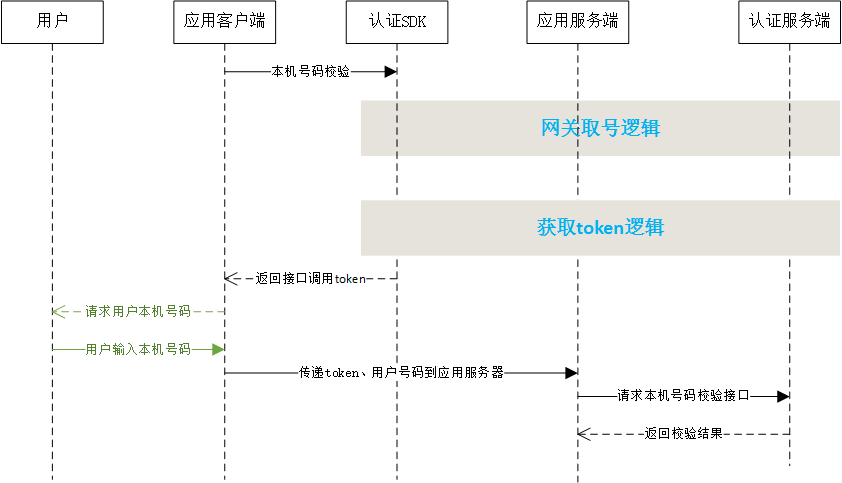
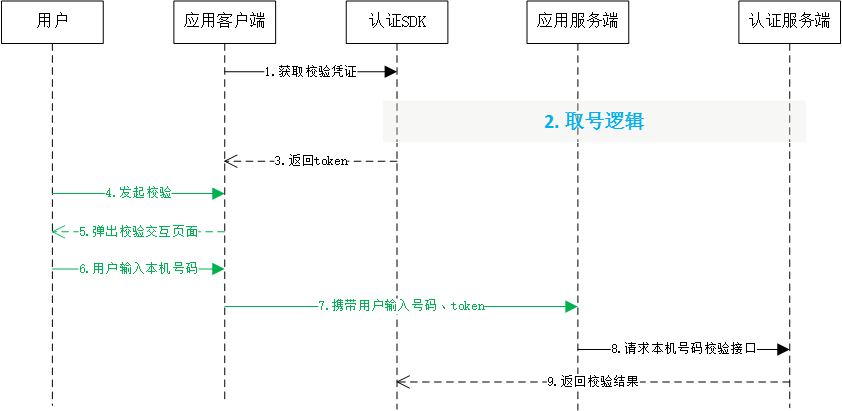
v5.1.4 -v2

diff --git a/本机校验-Android.md b/本机校验-Android.md
@@ -1,13 +1,20 @@
 # 1. 开发环境配置
 sdk技术问题沟通QQ群：609994083
 
+**注意事项：**
+
+1. **认证取号服务必须打开蜂窝数据流量并且手机操作系统给予应用蜂窝数据权限才能使用**
+2. **取号请求过程需要消耗用户少量数据流量（国外漫游时可能会产生额外的费用）**
+3. **认证取号服务目前仅支持中国移动2/3/4G**
+
 ## 1.1. 总体使用流程
+
+![](image/mobile_auth.png)
 
 1. 调用SDK方法来获得token；
 
-2. 携带token通过业务服务端到认证服务端的本机号码校验接口，进行号码校验
+2. 携带token通过业务服务端到认证服务端的本机号码校验接口，进行号码校验</br>
 
-    </br>
 
 ## 1.2. 新建工程并导入SDK的jar文件
 
@@ -21,9 +28,7 @@ sdk技术问题沟通QQ群：609994083
 
 ## 1.3. 配置AndroidManifest
 
-注意：为避免出错，请直接从Demo中复制带<!-- required -->标签的代码
-
-**配置权限**
+添加必要的权限支持: 
 
 ```java
 <uses-permission android:name="android.permission.INTERNET" />
@@ -33,7 +38,15 @@ sdk技术问题沟通QQ群：609994083
 <uses-permission android:name="android.permission.CHANGE_NETWORK_STATE" />
 ```
 
-通过以上步骤，工程就已经配置完成了。接下来就可以在代码里使用统一认证的SDK进行开发了
+权限说明：
+
+| 权限                 | 说明                                       |
+| -------------------- | ------------------------------------------ |
+| INTERNET             | 允许应用程序联网，用于访问网关和认证服务器 |
+| READ_PHONE_STATE     | 获取imsi用于判断双卡和换卡                 |
+| ACCESS_WIFI_STATE    | 允许程序访问WiFi网络状态信息               |
+| ACCESS_NETWORK_STATE | 获取网络状态，判断是否数据、wifi等         |
+| CHANGE_NETWORK_STATE | 允许程序改变网络连接状态                   |
 
 </br>
 
@@ -121,9 +134,7 @@ public AuthnHelper (Context context)
 
 ### 2.2.1. 方法描述
 
-开发者向统一认证服务器获取临时凭证`token`。</br>
-
-**token：**开发者服务端可凭临时凭证token通过3.1本机号码校验接口对本机号码进行验证。
+请求校验凭证`token`。</br>
 
 **注意：获取token前，开发者需提前申请`READ_PHONE_STATE`权限，否则会失败！**
 
@@ -147,7 +158,7 @@ public void umcLoginByType(String appId,
 | :------- | :------------ | :--------------------------------------- |
 | appId    | String        | 应用的AppID                                 |
 | appkey   | String        | 应用密钥                                     |
-| setTimeOut   | int        | 请求服务端超时时间                                     |
+| setTimeOut   | int        | 设置超时时间                               |
 | listener | TokenListener | TokenListener为回调监听器，是一个java接口，需要调用者自己实现；TokenListener是接口中的认证登录token回调接口，OnGetTokenComplete是该接口中唯一的抽象方法，即void OnGetTokenComplete(JSONObject  jsonobj) |
 
 **响应参数**
@@ -156,8 +167,8 @@ OnGetTokenComplete的参数JSONObject，含义如下：
 
 | 字段       | 类型   | 含义                                                         |
 | ---------- | ------ | ------------------------------------------------------------ |
-| resultCode | String | 接口返回码，“103000”为成功。具体响应码见4.1. 本机号码校验接口返回码 |
-| resultDesc | String | 失败时返回：返回错误码说明                                   |
+| resultCode | String | 返回码                                                       |
+| resultDesc | String | 返回描述                                                     |
 | token      | String | 成功时返回：临时凭证，token有效期2min，一次有效，同一用户（手机号）10分钟内获取token且未使用的数量不超过30个 |
 
 </br>
@@ -191,7 +202,7 @@ mAuthnHelper.umcLoginByType(Constant.APP_ID,
 
 开发者获取token后，需要将token传递到应用服务器，由应用服务器发起本机号码校验接口的调用。
 
-校验结果有两种：1.是本机号码；2.非本机号码。对于校验结果为非本机号码的请求，开发者可以选择使用短验辅助校验功能，通过短信验证码验证用户身份（**短验辅助校验无法保证校验的号码和本机号码一致**）
+校验结果有两种：1.是本机号码；2.非本机号码。对于校验结果为**2.非本机号码**的请求，开发者可以选择使用短验辅助校验功能，通过短信验证码验证用户身份（**短验辅助校验无法保证校验的号码和本机号码一致**）
 
 调用本接口，必须保证：
 
@@ -204,15 +215,7 @@ mAuthnHelper.umcLoginByType(Constant.APP_ID,
 1. 本产品属于收费业务，开发者未签订服务合同前，每天总调用次数有限，详情可咨询商务。
 2. 签订合同后，将不在提供每天免费的测试次数。
 
-### 3.1.1. 业务流程
-
-SDK在获取token过程中，用户手机必须在打开数据网络情况下才能获取成功。**注：本业务目前仅支持中国移动号码，建议开发者在使用该功能前，判断当前用户手机运营商**
-
-![](image/mobile_auth.png)
-
-</br>
-
-### 3.1.2. 接口说明
+### 3.1.1. 接口说明
 
 **调用次数说明：**本产品属于收费业务，开发者未签订服务合同前，每天总调用次数有限，详情可咨询商务。
 
@@ -224,7 +227,7 @@ SDK在获取token过程中，用户手机必须在打开数据网络情况下才
 
 </br>
 
-### 3.1.3.  参数说明
+### 3.1.2.  参数说明
 
 *1、json形式的报文交互必须是标准的json格式；*
 
@@ -232,43 +235,41 @@ SDK在获取token过程中，用户手机必须在打开数据网络情况下才
 
 **请求参数**
 
-| 参数          | 类型   | 层级  | 约束                         | 说明                                                         |
-| ------------- | ------ | ----- | ---------------------------- | ------------------------------------------------------------ |
-| **header**    |        | **1** | 必选                         |                                                              |
-| version       | string | 2     | 必选                         | 版本号,初始版本号1.0,有升级后续调整                          |
-| msgId         | string | 2     | 必选                         | 使用UUID标识请求的唯一性                                     |
-| timestamp     | string | 2     | 必选                         | 请求消息发送的系统时间，精确到毫秒，共17位，格式：20121227180001165 |
-| appId         | string | 2     | 必选                         | 应用ID                                                       |
-| **body**      |        | **1** | 必选                         |                                                              |
-| openType      | String | 2     | 否，requestertype字段为0时是 | 运营商类型：</br>1:移动;</br>2:联通;</br>3:电信;</br>0:未知  |
-| requesterType | String | 2     | 是                           | 请求方类型：</br>0:APP；</br>1:WAP                           |
-| message       | String | 2     | 否                           | 接入方预留参数，该参数会透传给通知接口，此参数需urlencode编码 |
-| expandParams  | String | 2     | 否                           | 扩展参数格式：param1=value1\|param2=value2  方式传递，参数以竖线 \| 间隔方式传递，此参数需urlencode编码。 |
-| keyType       | String | 2     | 否                           | 手机号码加密方式：</br>0:默认phonenum：sha256，sign：HMACSHA256</br>1:新增公钥加密（rsa加密）</br>（注：keyType=1时，phonenum和sign均使用rsa,keyType不填或非1、0时按keyType=0处理） |
-| phoneNum      | String | 2     | 是                           | 待校验的手机号码的64位sha256值，字母大写。（手机号码 + appKey + timestamp， “+”号为合并意思）（注：建议开发者对用户输入的手机号码的格式进行校验，增加校验通过的概率） |
-| token         | String | 2     | 是                           | 身份标识，字符串形式的token                                  |
-| sign          | String | 2     | 是                           | 签名，HMACSHA256( appId +     msgId + phonNum + timestamp + token + version)，输出64位大写字母 （注：“+”号为合并意思，不包含在被加密的字符串中,appkey为秘钥, 参数名做自然排序（Java是用TreeMap进行的自然排序）） |
-|               |        |       |                              |                                                              |
+| 参数          | 层级  | 约束                         | 说明                                                         |
+| ------------- | ----- | ---------------------------- | ------------------------------------------------------------ |
+| **header**    | **1** | 必选                         |                                                              |
+| version       | 2     | 必选                         | 版本号,初始版本号1.0,有升级后续调整                          |
+| msgId         | 2     | 必选                         | 使用UUID标识请求的唯一性                                     |
+| timestamp     | 2     | 必选                         | 请求消息发送的系统时间，精确到毫秒，共17位，格式：20121227180001165 |
+| appId         | 2     | 必选                         | 应用ID                                                       |
+| **body**      | **1** | 必选                         |                                                              |
+| openType      | 2     | 否，requestertype字段为0时是 | 运营商类型：</br>1:移动;</br>2:联通;</br>3:电信;</br>0:未知  |
+| requesterType | 2     | 必选                         | 请求方类型：</br>0:APP；</br>1:WAP                           |
+| message       | 2     | 否                           | 接入方预留参数，该参数会透传给通知接口，此参数需urlencode编码 |
+| expandParams  | 2     | 否                           | 扩展参数格式：param1=value1\|param2=value2  方式传递，参数以竖线 \| 间隔方式传递，此参数需urlencode编码。 |
+| keyType       | 2     | 否                           | 手机号码加密方式：</br>0:默认phonenum采用sha256加密，sign采用HMACSHA256算法</br>1:RSA加密（暂未支持）</br>（注：keyType=1时，phonenum和sign均使用RSA，keyType不填或非1、0时按keyType=0处理） |
+| phoneNum      | 2     | 必选                         | 待校验的手机号码的64位sha256值，字母大写。（手机号码 + appKey + timestamp， “+”号为合并意思）（注：建议开发者对用户输入的手机号码的格式进行校验，增加校验通过的概率） |
+| token         | 2     | 必选                         | 身份标识，字符串形式的token                                  |
+| sign          | 2     | 必选                         | 签名，HMACSHA256(appId + msgId + phonNum + timestamp + token + version)，输出64位大写字母 （注：“+”号为合并意思，不包含在被加密的字符串中,appkey为秘钥, 参数名做自然排序（Java是用TreeMap进行的自然排序）） |
 
 **响应参数**
 
-| 参数         | 层级  | 类型   | 约束 | 说明                                                         |
-| ------------ | ----- | :----- | :--- | :----------------------------------------------------------- |
-| **header**   | **1** |        | 必选 |                                                              |
-| msgId        | 2     | string | 必选 | 对应的请求消息中的msgid                                      |
-| timestamp    | 2     | string | 必选 | 响应消息发送的系统时间，精确到毫秒，共17位，格式：20121227180001165 |
-| appId        | 2     | string | 必选 | 应用ID                                                       |
-| resultCode   | 2     | string | 必选 | 规则参见4.1平台返回码                                        |
-| **body**     | **1** |        | 必选 |                                                              |
-| resultDesc   | 2     | String | 必选 | 描述参见4.1平台返回码                                        |
-| message      | 2     | String | 否   | 接入方预留参数，该参数会透传给通知接口，此参数需urlencode编码 |
-| accessToken  | 2     | String | 否   | 使用短验辅助服务的凭证，当resultCode返回为001时，并且该appid在开发者社区配置了短验辅助功能时。accessToken有效时间为5min，一次有效。 |
-| expandParams | 2     | String | 否   | 扩展参数格式：param1=value1\|param2=value2  方式传递，参数以竖线 \| 间隔方式传递，此参数需urlencode编码。 |
-|              |       |        |      |                                                              |
+| 参数         | 层级  | 约束 | 说明                                                         |
+| ------------ | ----- | :--- | :----------------------------------------------------------- |
+| **header**   | **1** | 必选 |                                                              |
+| msgId        | 2     | 必选 | 对应的请求消息中的msgid                                      |
+| timestamp    | 2     | 必选 | 响应消息发送的系统时间，精确到毫秒，共17位，格式：20121227180001165 |
+| appId        | 2     | 必选 | 应用ID                                                       |
+| resultCode   | 2     | 必选 | 平台返回码                                                   |
+| **body**     | **1** | 必选 |                                                              |
+| resultDesc   | 2     | 必选 | 平台返回码                                                   |
+| message      | 2     | 否   | 接入方预留参数，该参数会透传给通知接口，此参数需urlencode编码 |
+| accessToken  | 2     | 否   | 使用短验辅助服务的凭证，当resultCode返回为001时，并且该appid在开发者社区配置了短验辅助功能时返回该参数。accessToken有效时间为5min，一次有效。 |
+| expandParams | 2     | 否   | 扩展参数格式：param1=value1\|param2=value2  方式传递，参数以竖线 \| 间隔方式传递，此参数需urlencode编码。 |
 
 </br>
 
-### 3.1.4. 示例
+### 3.1.3. 示例
 
 **请求示例**
 
@@ -318,12 +319,12 @@ SDK在获取token过程中，用户手机必须在打开数据网络情况下才
 **调用注意事项：**
 
 1. 使用该接口前，请开发者在开发者社区能力配置页面勾选上“短验辅助功能”
-2. 只有在服务端返回校验成功，而且结果为“非本机号码”时，才能使用该接口
-3. 本接口使用的IP地址白名单与本机号码校验配置的白名单是一样的
+2. 只有在服务端返回校验成功，而且结果为“非本机号码”时，才能调用该接口
+3. 本接口要求服务器IP地址白名单与本机号码校验配置的白名单相同
 
 ### 3.2.1. 业务流程
 
-![](image/sendSMS.png)
+![](image/SMS_process.png)
 
 ### 3.2.2. 接口说明
 
@@ -361,7 +362,7 @@ SDK在获取token过程中，用户手机必须在打开数据网络情况下才
 | message       | String | 接入方预留参数，该参数会透传给通知接口，此参数需urlencode编码 |
 | accessToken   | String | 临时凭证，要求：失效时间默认为5分钟，可配置                  |
 | expandParams  | String | 扩展参数                                                     |
-| sign          | String | 签名，MD5（msgId + systemTime + version +   requestertype+ appId+ mobilenumber+   userIp+appkey），输出32位小写字母，（注：“+”号为合并意思，不包含在被加密的字符串中,appkey为秘钥,   参数名做自然排序（Java是用TreeMap进行的自然排序）排序后对应顺序参数值拼接做md5） |
+| sign          | String | 签名，MD5(msgId + systemTime + version + requesterType+ appId + mobileNumber + userIp + appkey)，输出32位小写字母，（注：“+”号为合并意思，不包含在被加密的字符串中，appkey为秘钥,   参数名做自然排序（Java是用TreeMap进行的自然排序）排序后对应顺序参数值拼接做md5） |
 
 **响应参数：**
 
@@ -371,7 +372,7 @@ SDK在获取token过程中，用户手机必须在打开数据网络情况下才
 | systemTime | String   | 消息发送的系统时间，精确到毫秒，共17位，格式：20121227180001165 |
 | message    | String   | 接入方预留参数，该参数会透传给通知接口，此参数需urlencode编码 |
 | resultDesc | String   | 返回码描述                                                   |
-| resultCode | String   | 处理状态编码：</br>000:成功；</br>003:内部调用失败；</br>004:下发失败；</br>102:参数无效；</br>124:IP校验失败；</br>125:未有使用移动认证短信能力；</br>213:appId不存在；</br>302:签名校验失败；</br>303:解析参数错误；</br>999:系统错误； |
+| resultCode | String   | 处理状态编码：</br>000:成功；</br>003:内部调用失败；</br>004:下发失败；</br>102:参数无效；</br>124:IP校验失败；</br>213:appId不存在；</br>302:签名校验失败；</br>303:解析参数错误；</br>999:系统错误； |
 
 ## 3.3. 短信验证码校验接口
 
@@ -379,7 +380,7 @@ SDK在获取token过程中，用户手机必须在打开数据网络情况下才
 
 ###3.3.1. 业务流程
 
-![](image/SMSVerify.png)
+![](image/SMS_process.png)
 
 
 
@@ -418,7 +419,7 @@ SDK在获取token过程中，用户手机必须在打开数据网络情况下才
 | userIp        | String | 客户端IP                                                     |
 | smsCode       | String | 短信验证码                                                   |
 | message       | String | 接入方预留参数，该参数会透传给通知接口，此参数需urlencode编码 |
-| sign          | String | 签名，MD5（msgId + systemTime + version +   requestertype+ appId +   mobilenumber+ userIp +appkey），输出32位小写字母，（注：“+”号为合并意思，不包含在被加密的字符串中,appkey为秘钥,   参数名做自然排序（Java是用TreeMap进行的自然排序）） |
+| sign          | String | 签名，MD5(msgId + systemTime + version +  requesterType + appId + mobileNumber+ userIp + appkey)，输出32位小写字母，（注：“+”号为合并意思，不包含在被加密的字符串中，appkey为秘钥,   参数名做自然排序（Java是用TreeMap进行的自然排序）） |
 
 **响应参数：**
 
@@ -427,11 +428,37 @@ SDK在获取token过程中，用户手机必须在打开数据网络情况下才
 | msgId      | String   | 对应的请求消息中的msgId                                      |
 | systemTime | String   | 消息发送的系统时间，精确到毫秒，共17位，格式：20121227180001165 |
 | message    | String   | 接入方预留参数，该参数会透传给通知接口，此参数需urlencode编码 |
-| resultCode | String   | 处理状态编码：</br>000:短信验证成功 ；</br>003:内部调用失败；</br>004:校验失败；</br>005:验证码已失效，请重新获取；</br>102:参数无效；</br>124:IP校验失败；</br>125:未有使用移动认证短信能力；</br>213:appId不存在；</br>302:签名校验失败；</br>303:解析参数错误；</br>999:系统错误； |
+| resultCode | String   | 处理状态编码：</br>000:短信验证成功 ；</br>003:内部调用失败；</br>004:校验失败；</br>005:验证码已失效，请重新获取；</br>102:参数无效；</br>124:IP校验失败；</br>213:appId不存在；</br>302:签名校验失败；</br>303:解析参数错误；</br>999:系统错误； |
 
 # 4. 平台返回码说明
 
-## 4.1. 本机号码校验接口返回码
+## 4.1. SDK返回码说明
+
+| 返回码 | 返回码描述                                                   |
+| ------ | ------------------------------------------------------------ |
+| 103000 | 成功                                                         |
+| 102101 | 无网络                                                       |
+| 102203 | 输入参数错误                                                 |
+| 102223 | 数据解析异常                                                 |
+| 102507 | 请求超时                                                     |
+| 102508 | 数据网络切换失败                                             |
+| 102509 | 未知错误                                                     |
+| 103101 | appkey错误                                                   |
+| 103102 | 包签名错误                                                   |
+| 103111 | 网关IP错误（运营商误判）                                     |
+| 103119 | appid不存在                                                  |
+| 103414 | 参数校验异常                                                 |
+| 103911 | token请求过于频繁，10分钟内获取token且未使用的数量不超过30个 |
+| 105002 | 移动取号失败                                                 |
+| 200002 | 获取imsi失败                                                 |
+| 200010 | 未开启数据网络                                               |
+| 200028 | 网络请求出错                                                 |
+| 200072 | CA认证失败                                                   |
+| 200075 | 仅支持移动卡                                                 |
+
+</br>
+
+## 4.2. 本机号码校验接口返回码
 
 本返回码表仅针对`本机号码校验接口`使用
 
@@ -450,30 +477,7 @@ SDK在获取token过程中，用户手机必须在打开数据网络情况下才
 | 999    | 系统异常                                     |
 | 102315 | 次数已用完                                   |
 
-## 4.2. SDK返回码说明
 
-| 返回码    | 返回码描述                             |
-| ------ | --------------------------------- |
-| 103000 | 成功                                |
-| 102101 | 无网络                               |
-| 102102 | 网络异常                              |
-| 102103 | 未开启数据网络                           |
-| 102121 | 用户取消登录                            |
-| 102223 | 数据解析异常                            |
-| 102203 | 输入参数错误                            |
-| 102507 | 请求超时，预取号、buffer页取号、登录时请求超时        |
-| 200002 | 手机未安装sim卡                         |
-| 200005 | 用户未授权（READ_PHONE_STATE）           |
-| 200006 | 用户未授权（SEND_SMS）                   |
-| 200007 | authType仅使用短信验证码认证                |
-| 200008 | 1. authType参数为空；2. authType参数不合法； |
-| 200009 | 应用合法性校验失败                         |
-| 200010 | 当前网络状态不支持的认证方式  |
-| 200028 | 网络请求出错  |
-|200072 |CA认证失败|
-|200075|仅支持移动卡取号|
-
-</br>
 
 ## 4.3. 短信验证码下发接口
 
